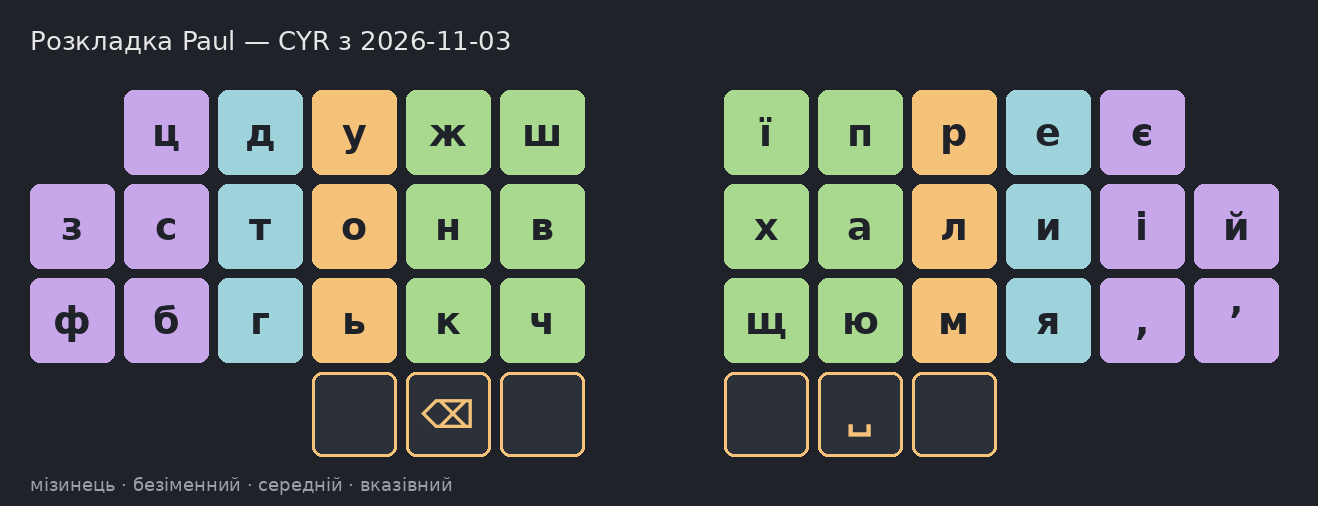
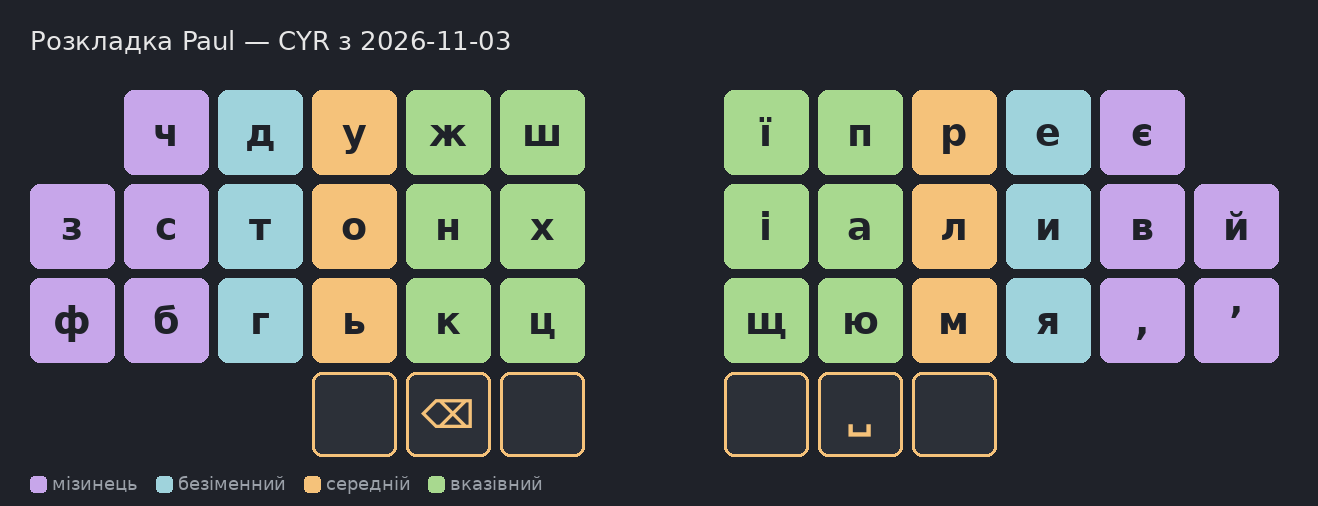
Author's layout: ц/х/і/в/ч per author's clarification; image; worklog

diff --git a/docs/WORKLOG.md b/docs/WORKLOG.md
@@ -7,12 +7,17 @@
 
 - **2026-11-03 (пізніше) на клавіатуру записано ручну правку автора поверх seed 5**
   (`config/layout_paul_2026-11-03.json`, картинка `docs/layout_paul_2026-11-03.png`,
-  дамп `config/zmk/studio_keymap_2026-11-03-paul.json`; штраф 177.95 vs 162.52).
-  Автор намалював 17 переміщень; ц/і/в/й не були намальовані — розставлені
-  за найменшим штрафом із 12 варіантів (ц — верх лівий мізинець, в — дотична
-  вказівного, і/й — домашній правий мізинець/зовнішня). «D = де» = «д» на місці ь (автор підтвердив). Апостроф 41 лишився `LS(GRAVE)`. Відкат на seed 5 —
+  дамп `config/zmk/studio_keymap_2026-11-03-paul.json`; штраф див. нижче).
+  Після уточнень автора (ц — дотична вказівного внизу, х — на місці старої м,
+  і — правий вказівний домашній, в — під є; ч повернулась на верх мізинця):
+  ```
+  верх     ч д у ж ш    ї п р е є
+  дім    з с т о н х    і а л и в й
+  низ    ф б г ь к ц    щ ю м я , ʼ
+  ```
+  Штраф 177.27 (seed 5 — 162.52). Апостроф 41 лишився `LS(GRAVE)`. Відкат на seed 5 —
   `studio.py write --layer CYR --yes /dev/ttyACM1 config/zmk/studio_keymap_2026-11-03-seed5.json`.
-  Спитати автора, чи влаштовують ц/і/в/й (їх розставив оптимізатор).
+  Спитати враження після набору.
 - **2026-11-03 на клавіатуру (CYR) записано seed 5** (162.52, без
   віддзеркалення); вона ж у `config/recorded_layout.json` (Rec<< у GUI) і
   `config/layout_seed5.json`. Автор пробує «за нагоди» — спитати враження.
